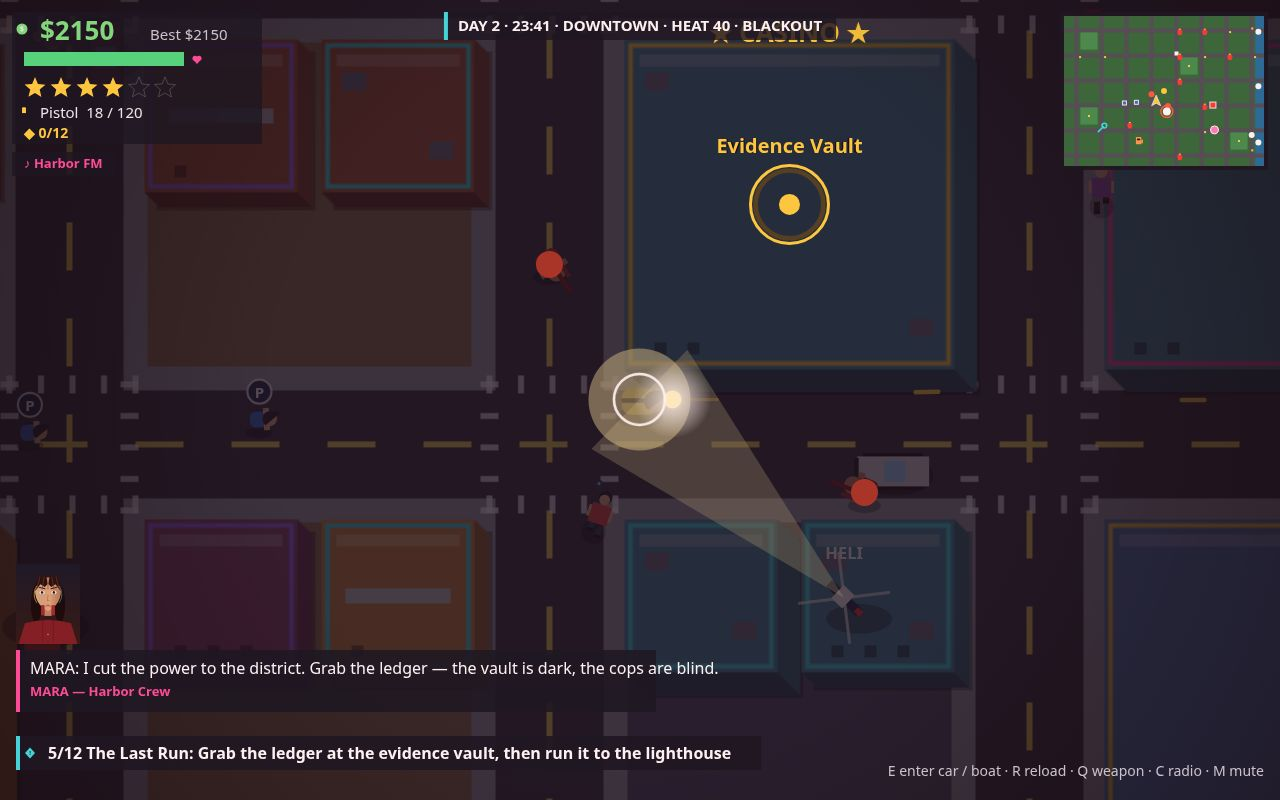
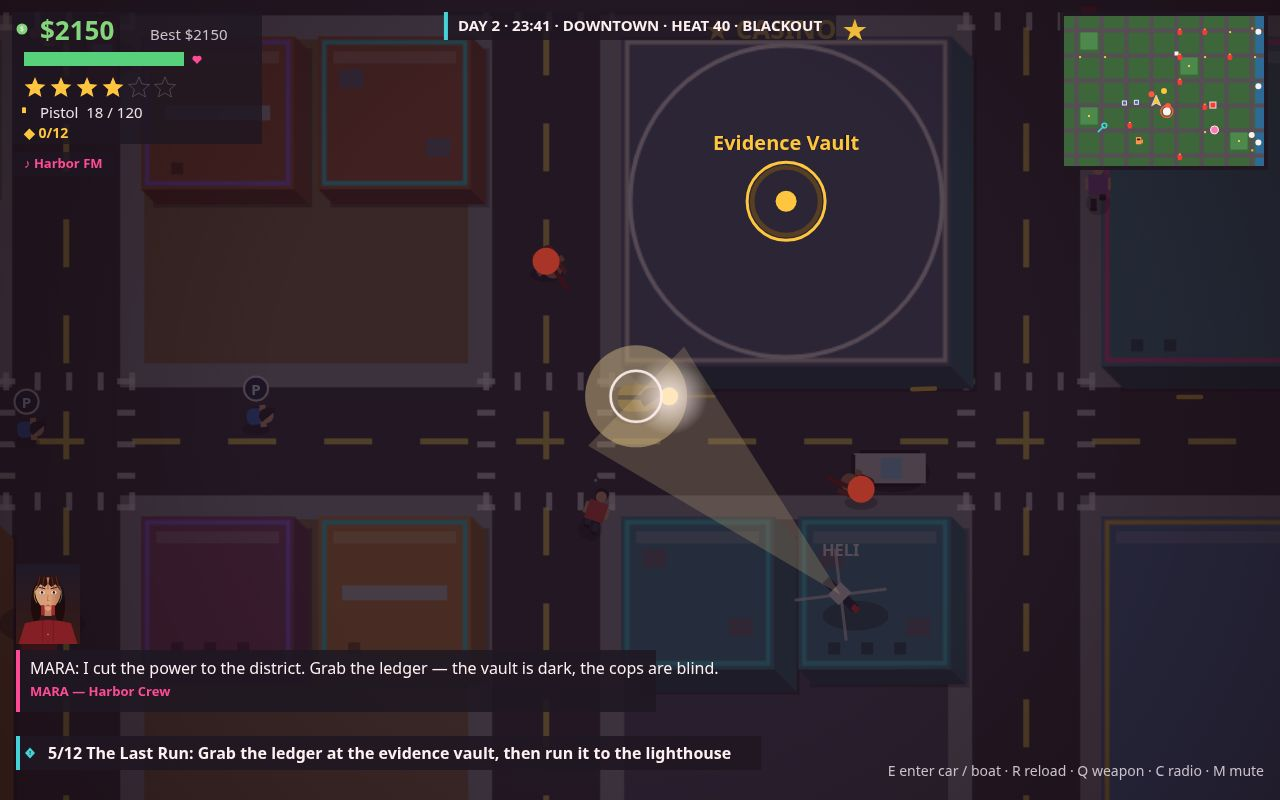
Neon Harbor round 10: wire drawWantedRow, drawBuilding landmarks, Jax & Mara on foot

diff --git a/game/src/render.js b/game/src/render.js
@@ -5,8 +5,8 @@ import { currentObjective, garageHot } from './missions.js';
 import { drawMinimap } from './minimap.js';
 import { createCinematic } from './cinematic.js';
 import { drawBuildingShadow, drawDayTint, drawLightPool, drawLightning, drawWetReflection } from './lighting.js';
-import { drawBuoy, drawCargoShip, drawContainer, drawCrane, drawCrosswalk, drawHydrant, drawLamp, drawPier, drawSign, drawTree } from './props.js';
-import { drawAmmoIcon, drawBanner, drawButton, drawCashIcon, drawDirectionArrow, drawHeart, drawMenuFrame, drawNeonLine, drawObjectiveIcon, drawSpeedIcon, drawStar, drawTargetRing } from './ui-art.js';
+import { drawBuoy, drawBuilding, drawCargoShip, drawContainer, drawCrane, drawCrosswalk, drawHydrant, drawLamp, drawPier, drawSign, drawTree } from './props.js';
+import { drawAmmoIcon, drawBanner, drawButton, drawCashIcon, drawDirectionArrow, drawHeart, drawMenuFrame, drawNeonLine, drawObjectiveIcon, drawSpeedIcon, drawTargetRing, drawWantedRow } from './ui-art.js';
 import { drawBoatWake, drawExplosionSprite, drawHarborSkyline, drawNeonLogo, drawPedPhone, drawPedestrian, drawPinkTaxi, drawPoliceCar, drawSpeedboat, drawSportCar, drawTireSmoke, drawVan, drawWaterJet } from './assets.js';
 import { drawJaxPortrait, drawMaraPortrait, drawPortraitSmall } from './portraits.js';
 
@@ -294,6 +294,8 @@ export function createRenderer(canvas) {
     for (const tree of city.trees) drawTree(g, tree.x, tree.y, tree.r, (tree.x + tree.y) % 2);
     for (const b of city.buildings) {
       drawBuildingShadow(g, b, { dx: 1, dy: 1 });
+      if (b.landmark === 'lighthouse') { drawBuilding(g, b.x, b.y, b.w, b.h, 4); continue; }
+      if (b.landmark === 'casino') { drawBuilding(g, b.x, b.y, b.w, b.h, 3); continue; }
       g.fillStyle = b.color;
       g.fillRect(b.x, b.y, b.w, b.h);
       g.strokeStyle = b.neon;
@@ -708,7 +710,7 @@ export function createRenderer(canvas) {
       if (!ped.alive || !inView(ped.x, ped.y, 30)) continue;
       const pa = ped.angle + Math.PI / 2;
       if (ped.photo > 0) drawPedPhone(ctx, ped.x, ped.y, pa);
-      else drawPedestrian(ctx, ped.x, ped.y, pa, i % 4, ped.walkPhase);
+      else drawPedestrian(ctx, ped.x, ped.y, pa, ped.hero || i % 4, ped.walkPhase);
     }
 
     for (const unit of state.police.units) {
@@ -1118,8 +1120,7 @@ export function createRenderer(canvas) {
   }
 
   function drawStars(ctx2, wanted, x, y) {
-    const full = Math.floor(wanted);
-    for (let i = 0; i < 6; i += 1) drawStar(ctx2, x + i * 26 + 11, y - 8, 11, i < full ? (i === 5 ? 2 : 1) : 0);
+    drawWantedRow(ctx2, x + 11, y - 8, 11, 6, Math.floor(wanted), 26);
   }
 
   function drawHud(state, best, ui) {

diff --git a/game/src/ui-art.js b/game/src/ui-art.js
@@ -11,7 +11,7 @@ function G(c,v,k){B(c);for(let i=0;i<v.length;i+=2)c[i?'lineTo':'moveTo'](v[i],v
 function T(c,z){c.font='bold '+z+'px system-ui';c.textAlign='center';c.textBaseline='middle'}
 function rr(c,x,y,w,h,r){B(c);c.roundRect(x,y,w,h,r)}
 export function drawStar(c,x,y,s,f){Z(c,x,y,s);B(c);for(let i=0;i<10;i++){let a=-1.57+i*.63,r=i%2?.45:1;c[i?'lineTo':'moveTo'](Math.cos(a)*r,Math.sin(a)*r)}c.closePath();if(f){F(c,f>1?'#ff8c1a':C.player);c.fill()}else{L(c,'#eef1f540',.08);c.stroke()}if(f>1){L(c,'#ff3b30',.1);A(c,0,0,1.15)}E(c)}
-export function drawWantedRow(c,x,y,s,n){for(let i=0;i<n;i++)drawStar(c,x+i*s*1.25,y,s,i>4?2:1)}
+export function drawWantedRow(c,x,y,s,n,f,g){for(let i=0;i<n;i++)drawStar(c,x+i*(g||s*1.25),y,s,i<(f===undefined?n:f)?(i>4?2:1):0)}
 export function drawCashIcon(c,x,y,s){Z(c,x,y,s);F(c,C.cash);A(c,0,0,.5,1);F(c,'#eef1f5');T(c,.62);c.fillText('$',0,.04);E(c)}
 export function drawHeart(c,x,y,s,o){Z(c,x,y,s);F(c,o||'#ff4d9d');A(c,-.22,-.08,.28,1);A(c,.22,-.08,.28,1);G(c,[-.5,0,.5,0,0,.55],1);E(c)}
 export function drawAmmoIcon(c,x,y,s,o){Z(c,x,y,s);F(c,o||C.player);R(c,-.22,-.5,.44,.62);G(c,[-.22,-.28,0,-.55,.22,-.28],1);E(c)}

diff --git a/game/src/traffic.js b/game/src/traffic.js
@@ -174,6 +174,17 @@ export function createPedestrians(city, rng) {
       flashTimer: 0,
     });
   }
+  // Round 10: Jax & Mara cross the opening intersection on foot, as themselves.
+  peds.push({
+    x: 540, y: 480, angle: 0, speed: 40,
+    color: '#6b4423', skin: '#d8a077', pants: '#1c1f24', hat: 0, build: 'wide',
+    flee: 0, alive: true, walkPhase: 0, photo: 0, flashTimer: 0, hero: 'jax',
+  });
+  peds.push({
+    x: 420, y: 480, angle: Math.PI, speed: 38,
+    color: '#8a1f28', skin: '#e8b98a', pants: '#2a1214', hat: 0, build: 'slim',
+    flee: 0, alive: true, walkPhase: 1.6, photo: 0, flashTimer: 0, hero: 'mara',
+  });
   return peds;
 }
 
